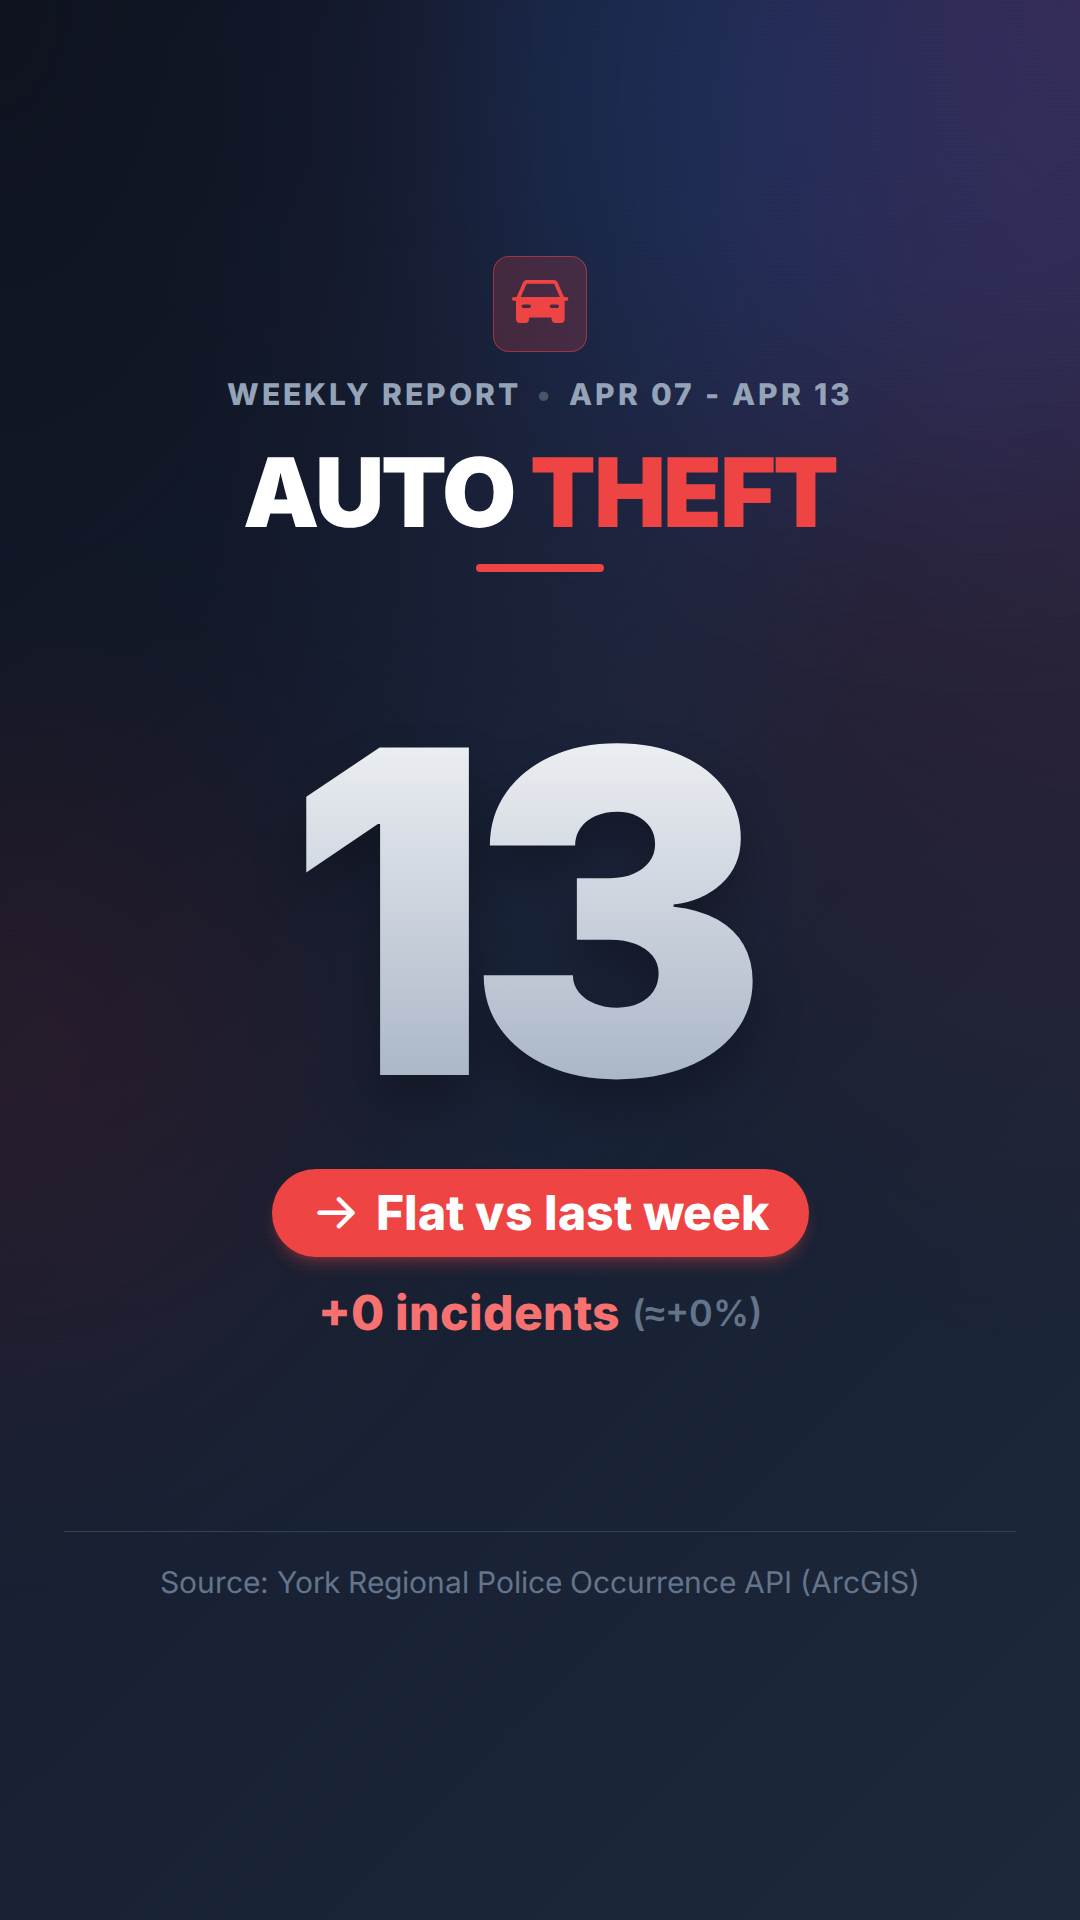
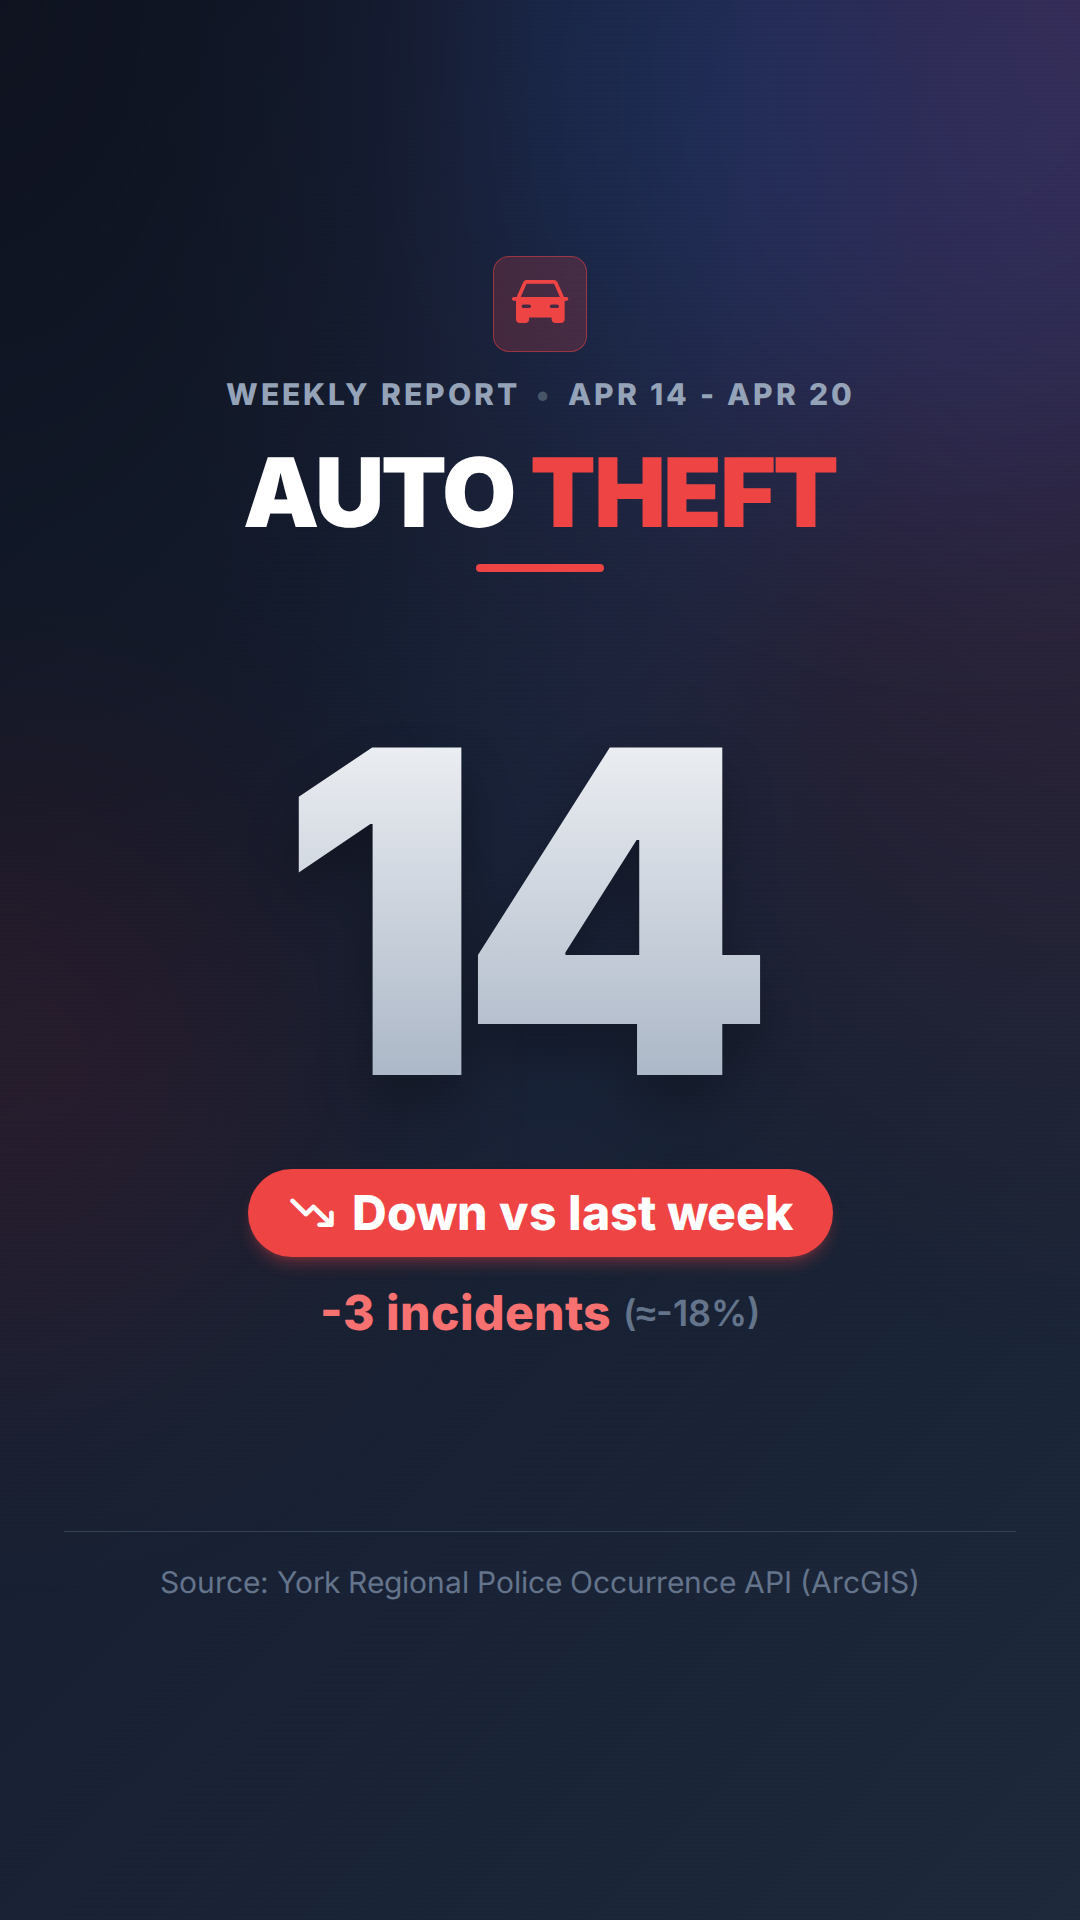
Update stats and screenshots 2026-04-20

diff --git a/templates/auto-theft.html b/templates/auto-theft.html
@@ -86,7 +86,7 @@
 <div class="flex items-center gap-4">
 <span class="text-3xl font-bold tracking-widest uppercase text-slate-400" id="report-label">Weekly Report</span>
 <span class="text-3xl font-bold tracking-widest uppercase text-slate-600">•</span>
-<span class="text-3xl font-bold tracking-widest uppercase text-slate-400" id="week-range">Apr 07 - Apr 13</span>
+<span class="text-3xl font-bold tracking-widest uppercase text-slate-400" id="week-range">Apr 14 - Apr 20</span>
 </div>
 </div>
 <!-- Big Title -->
@@ -102,19 +102,19 @@
 <!-- Number -->
 <div class="text-[450px] leading-none font-black tracking-tighter bg-clip-text text-transparent bg-gradient-to-b from-white to-slate-400 drop-shadow-2xl">
 <!-- Place this where the big number should show -->
-<span class="text-[450px] leading-none font-black tracking-tighter bg-clip-text text-transparent bg-gradient-to-b from-white to-slate-400 drop-shadow-2xl pr-12 pb-4" id="auto-theft-count">13</span>
+<span class="text-[450px] leading-none font-black tracking-tighter bg-clip-text text-transparent bg-gradient-to-b from-white to-slate-400 drop-shadow-2xl pr-12 pb-4" id="auto-theft-count">14</span>
 </div>
 <!-- Trend Info (Moved Inside) -->
 <div class="w-full flex flex-col items-center gap-8 mt-8">
 <!-- Trend Chip -->
 <div class="flex items-center gap-4 bg-red-500 text-white px-10 py-5 rounded-full shadow-lg shadow-red-500/30">
-<i class="ph-bold text-5xl ph-arrow-right"></i>
-<span class="text-5xl font-bold" id="trend-label">Flat vs last week</span>
+<i class="ph-bold text-5xl ph-arrow-right ph-trend-down"></i>
+<span class="text-5xl font-bold" id="trend-label">Down vs last week</span>
 </div>
 <!-- Small Line Info -->
 <div class="flex items-center gap-3">
-<span class="text-5xl font-bold text-red-400" id="delta-incidents">+0 incidents</span>
-<span class="text-4xl text-slate-500 font-semibold" id="delta-percent">(≈+0%)</span>
+<span class="text-5xl font-bold text-red-400" id="delta-incidents">-3 incidents</span>
+<span class="text-4xl text-slate-500 font-semibold" id="delta-percent">(≈-18%)</span>
 </div>
 </div>
 </div>

diff --git a/templates/assaults.html b/templates/assaults.html
@@ -87,7 +87,7 @@
 <div class="flex items-center gap-4">
 <span class="text-3xl font-bold tracking-widest uppercase text-slate-400">Weekly Report</span>
 <span class="text-3xl font-bold tracking-widest uppercase text-slate-600">•</span>
-<span class="text-3xl font-bold tracking-widest uppercase text-slate-400" id="week-range">Apr 07 - Apr 13</span>
+<span class="text-3xl font-bold tracking-widest uppercase text-slate-400" id="week-range">Apr 14 - Apr 20</span>
 </div>
 </div>
 <!-- Big Title -->
@@ -102,7 +102,7 @@
 <div class="p-20 flex flex-col items-center relative animate-pulse-slow min-w-[600px]">
 <!-- Number -->
 <!-- Added pr-12 (padding-right) and pb-4 to prevent clipping of the large glyph -->
-<div class="text-[450px] leading-none font-black tracking-tighter bg-clip-text text-transparent bg-gradient-to-b from-white to-slate-400 drop-shadow-2xl pr-12 pb-4" id="assaults-count">78</div>
+<div class="text-[450px] leading-none font-black tracking-tighter bg-clip-text text-transparent bg-gradient-to-b from-white to-slate-400 drop-shadow-2xl pr-12 pb-4" id="assaults-count">77</div>
 <!-- Trend Info (Moved Inside) -->
 <div class="w-full flex flex-col items-center gap-8 mt-8">
 <!-- Trend Chip (Violet Theme) -->
@@ -112,8 +112,8 @@
 </div>
 <!-- Small Line Info -->
 <div class="flex items-center gap-3">
-<span class="text-5xl font-bold text-violet-400" id="delta-incidents">-36 incidents</span>
-<span class="text-4xl text-slate-500 font-semibold" id="delta-percent">(≈-32%)</span>
+<span class="text-5xl font-bold text-violet-400" id="delta-incidents">-34 incidents</span>
+<span class="text-4xl text-slate-500 font-semibold" id="delta-percent">(≈-31%)</span>
 </div>
 </div>
 </div>

diff --git a/templates/break-enter.html b/templates/break-enter.html
@@ -87,7 +87,7 @@
 <div class="flex items-center gap-4">
 <span class="text-3xl font-bold tracking-widest uppercase text-slate-400" id="report-label">Weekly Report</span>
 <span class="text-3xl font-bold tracking-widest uppercase text-slate-600">•</span>
-<span class="text-3xl font-bold tracking-widest uppercase text-slate-400" id="week-range">Apr 07 - Apr 13</span>
+<span class="text-3xl font-bold tracking-widest uppercase text-slate-400" id="week-range">Apr 14 - Apr 20</span>
 </div>
 </div>
 <!-- Big Title -->
@@ -102,7 +102,7 @@
 <div class="p-20 flex flex-col items-center relative animate-pulse-slow min-w-[600px]">
 <!-- Number -->
 <div class="text-[450px] leading-none font-black tracking-tighter bg-clip-text text-transparent bg-gradient-to-b from-white to-slate-400 drop-shadow-2xl">
-<span id="break-enter-count">14</span>
+<span id="break-enter-count">23</span>
 </div>
 <!-- Trend Info (Moved Inside) -->
 <div class="w-full flex flex-col items-center gap-8 mt-8">
@@ -113,8 +113,8 @@
 </div>
 <!-- Small Line Info -->
 <div class="flex items-center gap-3">
-<span class="text-5xl font-bold text-orange-400" id="delta-incidents">-13 incidents</span>
-<span class="text-4xl text-slate-500 font-semibold" id="delta-percent">(≈-48%)</span>
+<span class="text-5xl font-bold text-orange-400" id="delta-incidents">-7 incidents</span>
+<span class="text-4xl text-slate-500 font-semibold" id="delta-percent">(≈-23%)</span>
 </div>
 </div>
 </div>
